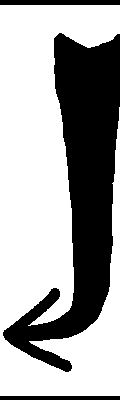
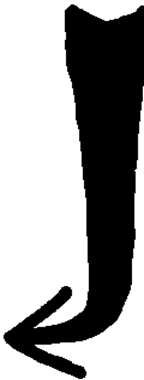
Tutorial version 2.

Changed region(s): [[0.0, 0.0, 1.0, 1.0]]

diff --git a/app/jni/src/playState/PlayStateGUILayer.cpp b/app/jni/src/playState/PlayStateGUILayer.cpp
@@ -67,11 +67,13 @@ namespace AngryBomb3D
         if(EnumsAndVars::MapsProgress::currentMapIndex == 1)
         {
             m_tutorialSliderPower = std::make_shared<Beryll::GUITexture>("GUI/playState/tutorial/TutorialSliderPower.png",
-                                                                         glm::vec3{11.0f, 40.0f, 0.1f}, glm::vec2{6.0f, 40.0f}, false);
+                                                                         glm::vec3{11.0f, 45.0f, 0.1f}, glm::vec2{6.0f, 35.0f}, false);
             m_tutorialCamera = std::make_shared<Beryll::GUITexture>("GUI/playState/tutorial/TutorialCamera.png",
-                                                                    glm::vec3{67.0f, 30.0f, 0.1f}, glm::vec2{26.0f, 40.0f}, false);
+                                                                    glm::vec3{66.0f, 30.0f, 0.1f}, glm::vec2{26.0f, 40.0f}, false);
             m_tutorialShot = std::make_shared<Beryll::GUITexture>("GUI/playState/tutorial/TutorialShot.png",
-                                                                  glm::vec3{18.0f, 45.0f, 0.1f}, glm::vec2{4.0f, 30.0f}, false);
+                                                                  glm::vec3{18.0f, 45.0f, 0.1f}, glm::vec2{4.0f, 25.0f}, false);
+            m_tutorialWinLoseMenu = std::make_shared<Beryll::GUITexture>("GUI/playState/tutorial/TutorialWinLoseMenu.png",
+                                                                         glm::vec3{71.0f, 70.0f, 0.1f}, glm::vec2{16.0f, 30.0f}, false);
         }
 
         // Sort to update nearest objects first. But draw should starts from farest object(in reverse order).
@@ -98,6 +100,9 @@ namespace AngryBomb3D
 
         if(sliderPower->getValue() < 0.12f)
             sliderPower->setValue(0.12f);
+
+        if(buttonShot->getIsPressed())
+            m_tutorialShotPressed = true;
 
         if(m_statisticsShow && Beryll::TimeStep::getMilliSecFromStart() > m_statisticsUpdateTime + 200) // Update every 200 ms.
         {
@@ -193,15 +198,15 @@ namespace AngryBomb3D
     void PlayStateGUILayer::draw()
     {
         // Tutorial.
-        if(EnumsAndVars::MapsProgress::currentMapIndex == 1 && !m_tutorialShotPressed)
+        if(EnumsAndVars::MapsProgress::currentMapIndex == 1)
         {
             if(!m_tutorialSliderChangedValue)
             {
                 glm::vec3 currPos = m_tutorialSliderPower->getPositionInPercents();
                 m_tutorialSliderPowerPosY = currPos.y;
                 m_tutorialSliderPowerPosY += 20.0f * Beryll::TimeStep::getTimeStepSec();
-                if(m_tutorialSliderPowerPosY > 60.0f)
-                    m_tutorialSliderPowerPosY = 40.0f;
+                if(m_tutorialSliderPowerPosY > 63.0f)
+                    m_tutorialSliderPowerPosY = 43.0f;
 
                 currPos.y = m_tutorialSliderPowerPosY;
                 m_tutorialSliderPower->updatePositionInPercents(currPos);
@@ -224,11 +229,11 @@ namespace AngryBomb3D
                     }
                 }
             }
-            else if(m_tutorialCameraRotatedTime + 2.0f < EnumsAndVars::mapPlayTimeSec)
+            else if(!m_tutorialShotPressed && m_tutorialCameraRotatedTime + 1.5f < EnumsAndVars::mapPlayTimeSec)
             {
                 glm::vec3 currPos = m_tutorialShot->getPositionInPercents();
                 m_tutorialShotPosY = currPos.y;
-                m_tutorialShotPosY -= 8.0f * Beryll::TimeStep::getTimeStepSec();
+                m_tutorialShotPosY -= 10.0f * Beryll::TimeStep::getTimeStepSec();
                 if(m_tutorialShotPosY < 35.0f)
                     m_tutorialShotPosY = 45.0f;
 
@@ -236,9 +241,22 @@ namespace AngryBomb3D
                 m_tutorialShot->updatePositionInPercents(currPos);
 
                 m_tutorialShot->draw();
+            }
 
-                if(buttonShot->getIsPressed())
-                    m_tutorialShotPressed = true;
+            if(EnumsAndVars::mapPlayerWin || EnumsAndVars::mapPlayerLose)
+            {
+                glm::vec3 currPos = m_tutorialWinLoseMenu->getPositionInPercents();
+                m_tutorialWinLoseMenuPosY = currPos.y;
+                m_tutorialWinLoseMenuPosY -= 30.0f * Beryll::TimeStep::getTimeStepSec();
+                if(EnumsAndVars::mapPlayerLose && m_tutorialWinLoseMenuPosY < 44.0f)
+                    m_tutorialWinLoseMenuPosY = 71.0f;
+                if(EnumsAndVars::mapPlayerWin && m_tutorialWinLoseMenuPosY < 29.0f)
+                    m_tutorialWinLoseMenuPosY = 71.0f;
+
+                currPos.y = m_tutorialWinLoseMenuPosY;
+                m_tutorialWinLoseMenu->updatePositionInPercents(currPos);
+
+                m_tutorialWinLoseMenu->draw();
             }
         }
 

diff --git a/app/jni/src/playState/PlayStateGUILayer.h b/app/jni/src/playState/PlayStateGUILayer.h
@@ -44,10 +44,12 @@ namespace AngryBomb3D
         std::shared_ptr<Beryll::GUITexture> m_tutorialSliderPower;
         std::shared_ptr<Beryll::GUITexture> m_tutorialCamera;
         std::shared_ptr<Beryll::GUITexture> m_tutorialShot;
+        std::shared_ptr<Beryll::GUITexture> m_tutorialWinLoseMenu;
         bool m_tutorialSliderChangedValue = false;
         bool m_tutorialCameraRotated = false;
         bool m_tutorialShotPressed = false;
         float m_tutorialSliderPowerPosY = 0.0f;
+        float m_tutorialWinLoseMenuPosY = 0.0f;
         float m_tutorialShotPosY = 0.0f;
         float m_tutorialCameraRotatedTime = 0.0f;
     };

diff --git a/app/jni/src/maps/Map1.cpp b/app/jni/src/maps/Map1.cpp
@@ -8,7 +8,7 @@ namespace AngryBomb3D
         loadEnv();
         loadEnemies();
         loadPlayerPoints();
-        loadBulletSet(BulletType::STANDARD_1_KG, 1, 1.5f);
+        loadBulletSet(BulletType::STANDARD_1_KG, 1, 1.0f);
         m_bulletMaxThrowPower = 100.0f;
 
         loadShaders();

diff --git a/app/jni/src/maps/Map15.cpp b/app/jni/src/maps/Map15.cpp
@@ -8,7 +8,7 @@ namespace AngryBomb3D
         loadEnv();
         loadEnemies();
         loadPlayerPoints();
-        loadBulletSet(BulletType::STANDARD_1_KG, 1, 3.0f);
+        loadBulletSet(BulletType::STANDARD_1_KG, 1, 1.0f);
         m_bulletMaxThrowPower = 120.0f;
 
         loadShaders();

diff --git a/app/jni/src/maps/Map2.cpp b/app/jni/src/maps/Map2.cpp
@@ -8,7 +8,7 @@ namespace AngryBomb3D
         loadEnv();
         loadEnemies();
         loadPlayerPoints();
-        loadBulletSet(BulletType::STANDARD_1_KG, 1, 1.5f);
+        loadBulletSet(BulletType::STANDARD_1_KG, 1, 1.0f);
         m_bulletMaxThrowPower = 75.0f;
 
         loadShaders();
